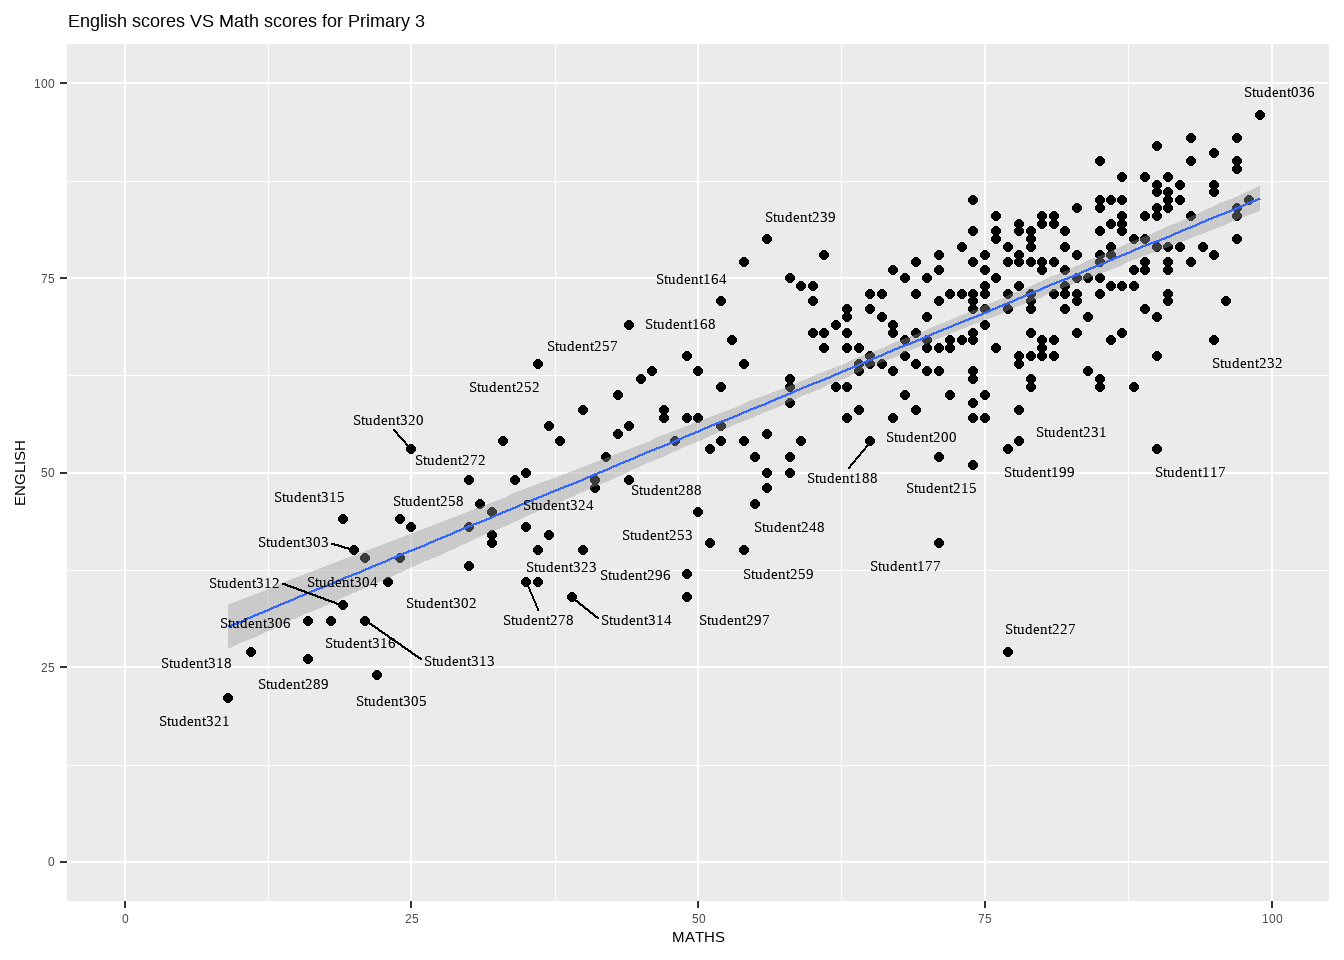
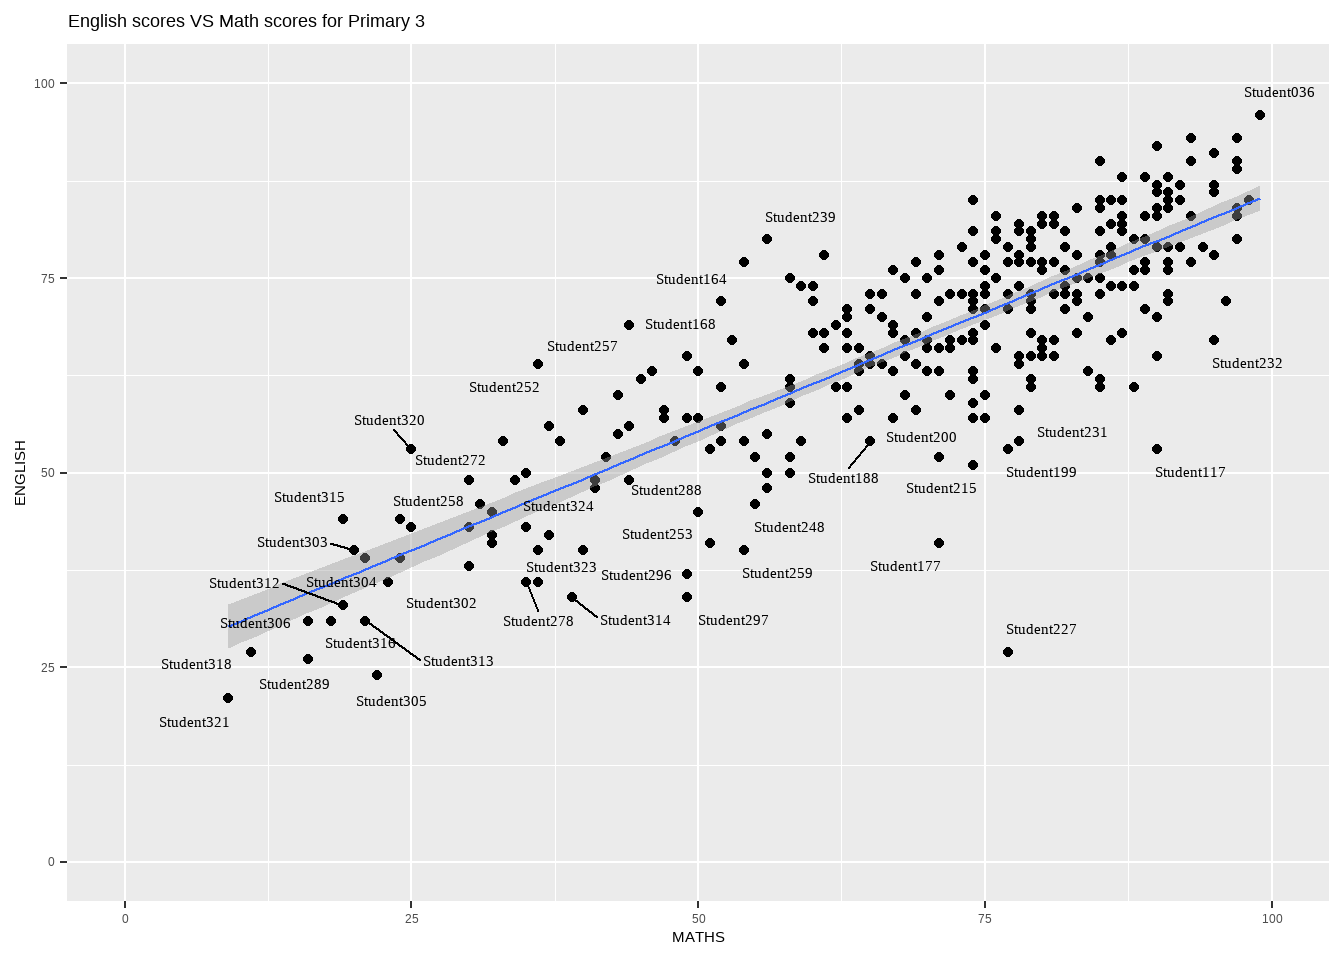
Feat: touch-up Hands-on Ex 02

diff --git a/_site/Hands-on_Ex/Hands-on_Ex02/Hands-on_Ex02.html b/_site/Hands-on_Ex/Hands-on_Ex02/Hands-on_Ex02.html
@@ -592,7 +592,7 @@ pre > code.sourceCode > span > a:first-child::before { text-decoration: underlin
 <div class="code-copy-outer-scaffold"><div class="sourceCode" id="cb4"><pre class="downlit sourceCode r code-with-copy"><code class="sourceCode R"><span><span class="fu">ggplot</span><span class="op">(</span>data <span class="op">=</span> <span class="va">exam_data</span>,</span>
 <span>       <span class="fu">aes</span><span class="op">(</span>x<span class="op">=</span> <span class="va">MATHS</span>, y <span class="op">=</span> <span class="va">ENGLISH</span><span class="op">)</span><span class="op">)</span> <span class="op">+</span></span>
 <span>         <span class="fu">geom_point</span><span class="op">(</span><span class="op">)</span> <span class="op">+</span></span>
-<span>    <span class="fu">geom_smooth</span><span class="op">(</span>method <span class="op">=</span> <span class="va">lm</span>, size <span class="op">=</span> <span class="fl">0.5</span><span class="op">)</span> <span class="op">+</span></span>
+<span>    <span class="fu">geom_smooth</span><span class="op">(</span>method <span class="op">=</span> <span class="va">lm</span>, linewidth  <span class="op">=</span> <span class="fl">0.5</span><span class="op">)</span> <span class="op">+</span></span>
 <span>  <span class="fu">geom_label</span><span class="op">(</span><span class="fu">aes</span><span class="op">(</span>label <span class="op">=</span> <span class="va">ID</span>, hjust <span class="op">=</span> <span class="fl">0.5</span>, vjust<span class="op">=</span> <span class="op">-</span><span class="fl">0.5</span><span class="op">)</span><span class="op">)</span> <span class="op">+</span> </span>
 <span>  <span class="fu">coord_cartesian</span><span class="op">(</span>xlim <span class="op">=</span> <span class="fu"><a href="https://rdrr.io/r/base/c.html">c</a></span><span class="op">(</span><span class="fl">0</span>,<span class="fl">100</span><span class="op">)</span>, ylim <span class="op">=</span> <span class="fu"><a href="https://rdrr.io/r/base/c.html">c</a></span><span class="op">(</span><span class="fl">0</span>,<span class="fl">100</span><span class="op">)</span><span class="op">)</span> <span class="op">+</span></span>
 <span>  <span class="fu">ggtitle</span><span class="op">(</span><span class="st">"English scores VS Math scores for Primary 3"</span><span class="op">)</span></span></code></pre></div><button title="Copy to Clipboard" class="code-copy-button"><i class="bi"></i></button></div>
@@ -627,7 +627,7 @@ pre > code.sourceCode > span > a:first-child::before { text-decoration: underlin
 <div class="code-copy-outer-scaffold"><div class="sourceCode" id="cb5"><pre class="downlit sourceCode r code-with-copy"><code class="sourceCode R"><span><span class="fu">ggplot</span><span class="op">(</span>data <span class="op">=</span> <span class="va">exam_data</span>,</span>
 <span>       <span class="fu">aes</span><span class="op">(</span>x<span class="op">=</span> <span class="va">MATHS</span>, y <span class="op">=</span> <span class="va">ENGLISH</span><span class="op">)</span><span class="op">)</span> <span class="op">+</span></span>
 <span>         <span class="fu">geom_point</span><span class="op">(</span><span class="op">)</span> <span class="op">+</span></span>
-<span>    <span class="fu">geom_smooth</span><span class="op">(</span>method <span class="op">=</span> <span class="va">lm</span>, size <span class="op">=</span> <span class="fl">0.5</span><span class="op">)</span> <span class="op">+</span></span>
+<span>    <span class="fu">geom_smooth</span><span class="op">(</span>method <span class="op">=</span> <span class="va">lm</span>, linewidth  <span class="op">=</span> <span class="fl">0.5</span><span class="op">)</span> <span class="op">+</span></span>
 <span>  <span class="fu">geom_label_repel</span><span class="op">(</span><span class="fu">aes</span><span class="op">(</span>label <span class="op">=</span> <span class="va">ID</span>, fontface <span class="op">=</span> <span class="st">"bold"</span><span class="op">)</span><span class="op">)</span> <span class="op">+</span> </span>
 <span>  <span class="fu">coord_cartesian</span><span class="op">(</span>xlim <span class="op">=</span> <span class="fu"><a href="https://rdrr.io/r/base/c.html">c</a></span><span class="op">(</span><span class="fl">0</span>,<span class="fl">100</span><span class="op">)</span>, ylim <span class="op">=</span> <span class="fu"><a href="https://rdrr.io/r/base/c.html">c</a></span><span class="op">(</span><span class="fl">0</span>,<span class="fl">100</span><span class="op">)</span><span class="op">)</span> <span class="op">+</span></span>
 <span>  <span class="fu">ggtitle</span><span class="op">(</span><span class="st">"English scores VS Math scores for Primary 3"</span><span class="op">)</span></span></code></pre></div><button title="Copy to Clipboard" class="code-copy-button"><i class="bi"></i></button></div>
@@ -648,7 +648,7 @@ pre > code.sourceCode > span > a:first-child::before { text-decoration: underlin
 <div class="code-copy-outer-scaffold"><div class="sourceCode" id="cb6"><pre class="downlit sourceCode r code-with-copy"><code class="sourceCode R"><span><span class="fu">ggplot</span><span class="op">(</span>data <span class="op">=</span> <span class="va">exam_data</span>,</span>
 <span>       <span class="fu">aes</span><span class="op">(</span>x<span class="op">=</span> <span class="va">MATHS</span>, y <span class="op">=</span> <span class="va">ENGLISH</span><span class="op">)</span><span class="op">)</span> <span class="op">+</span></span>
 <span>         <span class="fu">geom_point</span><span class="op">(</span><span class="op">)</span> <span class="op">+</span></span>
-<span>    <span class="fu">geom_smooth</span><span class="op">(</span>method <span class="op">=</span> <span class="va">lm</span>, size <span class="op">=</span> <span class="fl">0.5</span><span class="op">)</span> <span class="op">+</span></span>
+<span>    <span class="fu">geom_smooth</span><span class="op">(</span>method <span class="op">=</span> <span class="va">lm</span>, linewidth  <span class="op">=</span> <span class="fl">0.5</span><span class="op">)</span> <span class="op">+</span></span>
 <span>   <span class="fu">geom_text_repel</span><span class="op">(</span><span class="fu">aes</span><span class="op">(</span>label <span class="op">=</span> <span class="va">ID</span><span class="op">)</span>, </span>
 <span>                  family <span class="op">=</span> <span class="st">"serif"</span>, box.padding <span class="op">=</span> <span class="fl">0.5</span><span class="op">)</span><span class="op">+</span></span>
 <span>  <span class="fu">coord_cartesian</span><span class="op">(</span>xlim <span class="op">=</span> <span class="fu"><a href="https://rdrr.io/r/base/c.html">c</a></span><span class="op">(</span><span class="fl">0</span>,<span class="fl">100</span><span class="op">)</span>, ylim <span class="op">=</span> <span class="fu"><a href="https://rdrr.io/r/base/c.html">c</a></span><span class="op">(</span><span class="fl">0</span>,<span class="fl">100</span><span class="op">)</span><span class="op">)</span> <span class="op">+</span></span>
